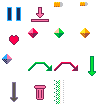
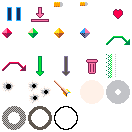
Improve attack animations, add explosion sound

diff --git a/lib/src/game/engine/GameRulesEngine.cpp b/lib/src/game/engine/GameRulesEngine.cpp
@@ -174,7 +174,10 @@ void GameRulesEngine::operator()(const MonsterShotAtGameEvent& e)
 {
     auto& weapon = scene.inventory[e.inventoryWeaponIdx].value();
 
-    const auto soundDuration = audioEngine.playSound(weapon.specialSound);
+    const auto soundDuration =
+        weapon.image == CardImage::RocketLauncher
+            ? audioEngine.playSound(SoundId::LauncherFire)
+            : sf::seconds(0.001f);
     --weapon.quantity;
     scene.stats.shotsFired++;
 
@@ -190,7 +193,7 @@ void GameRulesEngine::operator()(const MonsterShotAtGameEvent& e)
             weapon.special & CardSpecial::CritChance
                 ? static_cast<int>(scene.chance.rollForCrit())
                 : 0;
-        scene.activeAnimation = AnimationEnemyDamaged(
+        scene.activeAnimation = AnimationEnemyDamagedWindup(
             weapon.power + extraDamage, e.inventoryWeaponIdx, soundDuration);
     }
 }
@@ -278,6 +281,23 @@ void GameRulesEngine::operator()(const DiscardReturnedToDeckGameEvent&)
 {
     scene.deck = scene.cardsToAdd;
     scene.cardsToAdd.clear();
+}
+
+void GameRulesEngine::operator()(const AttackWindupAnimationEndedGameEvent& e)
+{
+    assert(scene.inventory[e.usedWeaponInventoryIdx]);
+    auto& weapon = scene.inventory[e.usedWeaponInventoryIdx].value();
+    const auto soundDuration = audioEngine.playSound(weapon.specialSound);
+
+    const auto icon =
+        weapon.image == CardImage::Pistol           ? Icon::BulletHole
+        : weapon.image == CardImage::SilencedPistol ? Icon::BulletHole
+        : weapon.image == CardImage::Crossbow       ? Icon::Dart
+        : weapon.image == CardImage::Shotgun        ? Icon::ThreeBulletHole
+                                                    : Icon::Explosion1;
+
+    scene.activeAnimation = AnimationEnemyDamaged(
+        e.damage, e.usedWeaponInventoryIdx, icon, soundDuration);
 }
 
 void GameRulesEngine::update(const dgm::Time& time)
@@ -581,6 +601,11 @@ GameRulesEngine::getEventAfterAnimationEnded(const Animation& animation)
             {
                 return MonsterReactionFinishedGameEvent(
                     a.skipCardAfterReaction);
+            },
+            [](const AnimationEnemyDamagedWindup& a) -> std::optional<GameEvent>
+            {
+                return AttackWindupAnimationEndedGameEvent(
+                    a.damage, a.usedWeaponInventoryIdx);
             },
             [](const AnimationEnemyDamaged& a) -> std::optional<GameEvent>
             {

diff --git a/lib/src/game/engine/RenderingEngine.cpp b/lib/src/game/engine/RenderingEngine.cpp
@@ -165,10 +165,12 @@ void RenderingEngine::operator()(const AnimationEnemyAttack& a)
         (RenderingEngine::getInfectionTextOffset()
          - (getMainCardOffset() + scene.mainCardBody.getSize()))
         * Easing::easeAttack(a.perc);
-    renderCard(
-        scene.deck.front(),
-        getMainCardOffset() + animationOffset,
-        sf::Vector2f { 1.f, 1.f });
+    renderCard(scene.deck.front(), getMainCardOffset() + animationOffset);
+}
+
+void RenderingEngine::operator()(const AnimationEnemyDamagedWindup&)
+{
+    renderCard(scene.deck.front(), getMainCardOffset());
 }
 
 void RenderingEngine::operator()(const AnimationEnemyDamaged& a)
@@ -178,30 +180,34 @@ void RenderingEngine::operator()(const AnimationEnemyDamaged& a)
 
     const auto animationOffset =
         sf::Vector2f { 76.f * 0.1f, 76.f * 0.1f } * Easing::easeDamage(factor);
-    renderCard(
-        scene.deck.front(),
-        getMainCardOffset() + animationOffset,
-        { 1.f, 1.f });
+    renderCard(scene.deck.front(), getMainCardOffset() + animationOffset);
+
+    if (a.perc >= 1.f) return;
+
+    const size_t iconOffset = a.impactIconId == Icon::Explosion1
+                                  ? static_cast<size_t>(a.perc * 10 / 2)
+                                  : 0u;
+
+    sprite.setTextureRect(
+        atlas.getClip(iconsLocation)
+            .getFrame(std::to_underlying(a.impactIconId) + iconOffset));
+    sprite.setPosition(
+        getMainCardOffset() + sf::Vector2f(30.f, 30.f) + animationOffset);
+    window.draw(sprite);
 }
 
 void RenderingEngine::operator()(const AnimationEnemyDodgedAttack& a)
 {
     const auto animationOffset =
         sf::Vector2f { -15.f, 0.f } * Easing::easeOutThenBack(a.perc);
-    renderCard(
-        scene.deck.front(),
-        getMainCardOffset() + animationOffset,
-        { 1.f, 1.f });
+    renderCard(scene.deck.front(), getMainCardOffset() + animationOffset);
 }
 
 void RenderingEngine::operator()(const AnimationInvalidOperation& a)
 {
     const auto animationOffset =
         sf::Vector2f { 4.f, 4.f } * Easing::easeDamage(a.perc);
-    renderCard(
-        scene.deck.front(),
-        getMainCardOffset() + animationOffset,
-        { 1.f, 1.f });
+    renderCard(scene.deck.front(), getMainCardOffset() + animationOffset);
 }
 
 void RenderingEngine::operator()(const AnimationNewCardsShufflingIntoDeck& a)

diff --git a/lib/include/game/animations/Animations.hpp b/lib/include/game/animations/Animations.hpp
@@ -1,6 +1,7 @@
 #pragma once
 
 #include "game/definitions/Card.hpp"
+#include "game/enums/Icon.hpp"
 #include <DGM/classes/Animation.hpp>
 #include <DGM/classes/Time.hpp>
 #include <SFML/System/Vector2.hpp>
@@ -67,16 +68,35 @@ struct [[nodiscard]] AnimationEnemyAttack final : AnimationBase
     }
 };
 
+struct [[nodiscard]] AnimationEnemyDamagedWindup final : AnimationBase
+{
+    int damage = 0;
+    size_t usedWeaponInventoryIdx = 0;
+
+    AnimationEnemyDamagedWindup(
+        int damage, size_t usedWeaponInventoryIdx, sf::Time duration)
+        : AnimationBase(duration)
+        , damage(damage)
+        , usedWeaponInventoryIdx(usedWeaponInventoryIdx)
+    {
+    }
+};
+
 struct [[nodiscard]] AnimationEnemyDamaged final : AnimationBase
 {
     int damage = 0;
-    size_t usedWeaponInventoryIdx = false;
+    size_t usedWeaponInventoryIdx = 0;
+    Icon impactIconId;
 
     AnimationEnemyDamaged(
-        int damage, size_t usedWeaponInventoryIdx, sf::Time duration)
+        int damage,
+        size_t usedWeaponInventoryIdx,
+        Icon impactIconId,
+        sf::Time duration)
         : AnimationBase(sf::seconds(std::max(duration.asSeconds(), 0.25f)))
         , damage(damage)
         , usedWeaponInventoryIdx(usedWeaponInventoryIdx)
+        , impactIconId(impactIconId)
     {
     }
 };
@@ -139,6 +159,7 @@ using Animation = std::variant<
     AnimationDiscardToDeck,
     AnimationDoorOpen,
     AnimationEnemyAttack,
+    AnimationEnemyDamagedWindup,
     AnimationEnemyDamaged,
     AnimationEnemyDodgedAttack,
     AnimationInvalidOperation,

diff --git a/lib/include/game/events/GameEvents.hpp b/lib/include/game/events/GameEvents.hpp
@@ -140,6 +140,18 @@ struct [[nodiscard]] DiscardReturnedToDeckGameEvent
 {
 };
 
+struct [[nodiscard]] AttackWindupAnimationEndedGameEvent
+{
+    int damage;
+    size_t usedWeaponInventoryIdx;
+
+    AttackWindupAnimationEndedGameEvent(
+        int damage, size_t usedWeaponInventoryIdx) noexcept
+        : damage(damage), usedWeaponInventoryIdx(usedWeaponInventoryIdx)
+    {
+    }
+};
+
 using GameEvent = std::variant<
     CardTakenGameEvent,
     BeforeCardSkipGameEvent,
@@ -158,4 +170,5 @@ using GameEvent = std::variant<
     MainCardResolvedGameEvent,
     DoorOpenedGameEvent,
     NewCardShuffledToDiscard,
-    DiscardReturnedToDeckGameEvent>;
+    DiscardReturnedToDeckGameEvent,
+    AttackWindupAnimationEndedGameEvent>;

diff --git a/lib/src/game/builders/CardBuilder.cpp b/lib/src/game/builders/CardBuilder.cpp
@@ -41,7 +41,7 @@ const std::map<CardType, Card> CARD_DEFS = {
     { CardType::RocketLauncher,
       Card { .image = CardImage::RocketLauncher,
              .traits = CardTrait::Pickable | CardTrait::Weapon,
-             .specialSound = SoundId::LauncherFire,
+             .specialSound = SoundId::Explosion,
              .quantity = 1,
              .power = 3,
              .name = "rocket launcher" } },

diff --git a/lib/include/game/enums/SoundId.hpp b/lib/include/game/enums/SoundId.hpp
@@ -20,6 +20,7 @@ namespace SoundId
     const IdType SilencedPistolFire = "zombie_cards_silenced_pistol.wav";
     const IdType Crossbow = "crossbow.wav";
     const IdType LauncherFire = "zombie_cards_launcher.wav";
+    const IdType Explosion = "rocket_explosion.wav";
     const IdType CrateOpen = "crate.wav";
     const IdType DoorUnlock = "KEY_DOOR.wav";
     const IdType Heal = "heal.wav";

diff --git a/lib/include/game/engine/RenderingEngine.hpp b/lib/include/game/engine/RenderingEngine.hpp
@@ -70,6 +70,8 @@ public:
 
     void operator()(const AnimationEnemyAttack& a);
 
+    void operator()(const AnimationEnemyDamagedWindup& a);
+
     void operator()(const AnimationEnemyDamaged& a);
 
     void operator()(const AnimationEnemyDodgedAttack& a);

diff --git a/lib/include/game/enums/Icon.hpp b/lib/include/game/enums/Icon.hpp
@@ -17,4 +17,12 @@ enum class [[nodiscard]] Icon
     RedTake,
     Trash,
     HealEffect,
+    BulletHole,
+    ThreeBulletHole,
+    Dart,
+    Explosion1,
+    Explosion2,
+    Explosion3,
+    Explosion4,
+    Explosion5,
 };

diff --git a/lib/include/game/engine/GameRulesEngine.hpp b/lib/include/game/engine/GameRulesEngine.hpp
@@ -65,6 +65,8 @@ public:
 
     void operator()(const DiscardReturnedToDeckGameEvent&);
 
+    void operator()(const AttackWindupAnimationEndedGameEvent&);
+
 public:
     void update(const dgm::Time& time);
 
